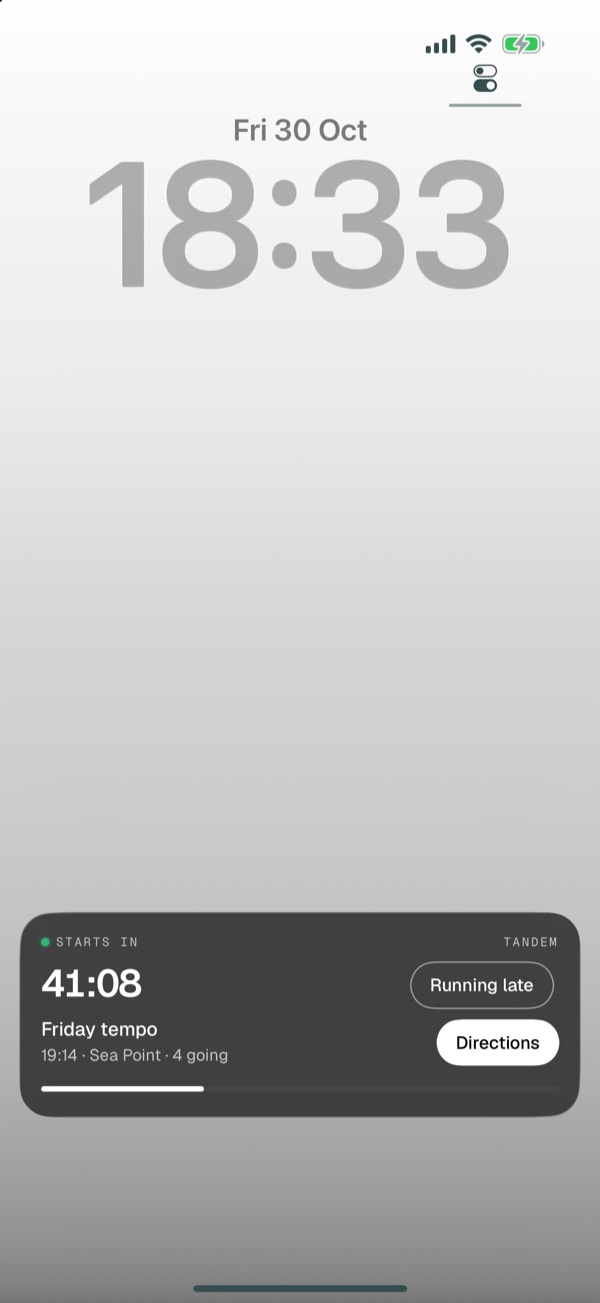
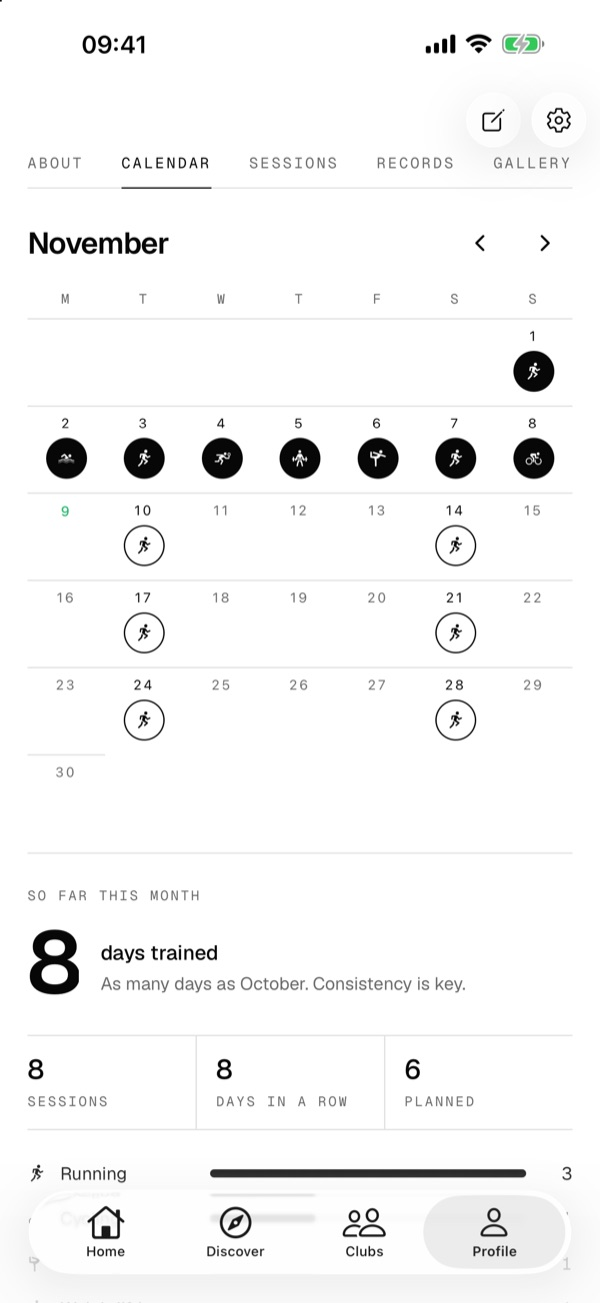
Tandem: the calendar in place of the Lock Screen, in the App Store row and the gallery; comments are on the session

diff --git a/app/tandem/page.tsx b/app/tandem/page.tsx
@@ -24,7 +24,7 @@ const screens: [string, string][] = [
   ['4-profile', 'Know who you’re meeting.'],
   ['5-host', 'Host a session in a minute.'],
   ['6-clubs', 'Run your club and watch it grow.'],
-  ['7-on-the-day', 'Never forget a session again.'],
+  ['7-calendar', 'See your month at a glance.'],
   ['8-join-for-part', 'Join for the part that suits you.'],
   ['9-stats', 'See your stats, then vouch for who came.'],
   ['10-share', 'Share it to your story.'],
@@ -184,7 +184,7 @@ export default function TandemPage() {
                 <>
                   Your workouts come in from Apple Health by themselves, or only when you add them, and sit with the session
                   they belong to. Afterwards the session tells the story of how it went: how long you ran together, who picked
-                  up the pace, the climb, how hard everyone worked. Add a note to your workout, comment on each other&apos;s,
+                  up the pace, the climb, how hard everyone worked. Add a note to your workout, comment on the session,
                   vouch for the people you&apos;d train with again, and share a story card or a poster.
                 </>,
               ],
@@ -193,7 +193,7 @@ export default function TandemPage() {
           <Phones
             phones={[
               { src: '/tandem/phone/5.jpg', alt: 'Hosting a session: the last step, with the plan to check before it goes out', caption: 'Host a session' },
-              { src: '/tandem/phone/7.jpg', alt: 'The Lock Screen an hour before: a countdown, who is going, Running late and Directions', caption: 'On the day' },
+              { src: '/tandem/phone/7.jpg', alt: 'Your month: each day’s sport on a calendar, sessions still to come ringed, and how many days you trained', caption: 'Your month' },
             ]}
           />
         </Section>
